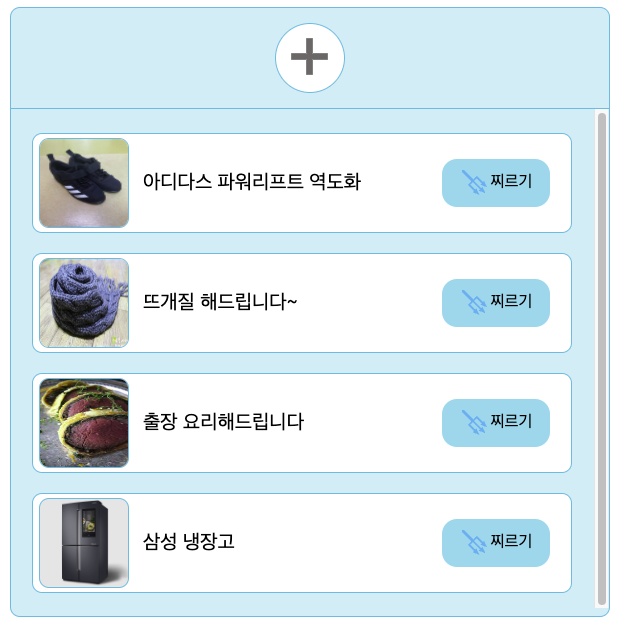
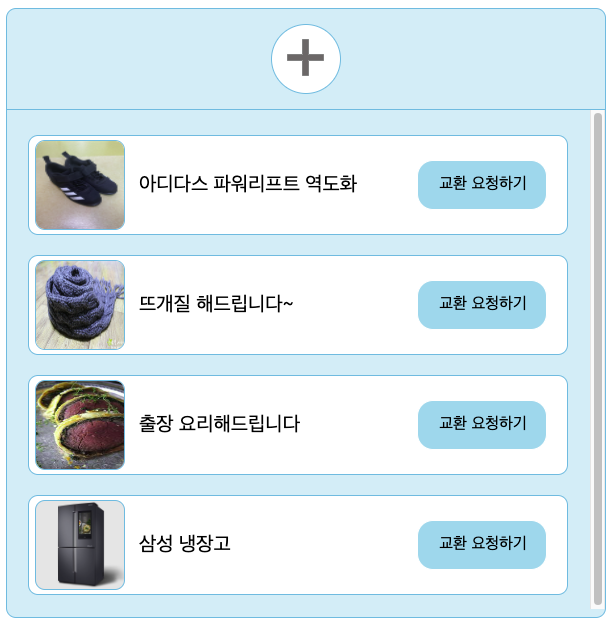
[fix] homepage 수정

Changed region(s): [[0.0, 0.0, 0.9902, 1.0]]

diff --git a/client/src/page/home/HomePage.tsx b/client/src/page/home/HomePage.tsx
@@ -15,14 +15,19 @@ import shelldetail from '../../asset/homepage/shelldetail.png';
 import pokeshell from '../../asset/homepage/pokeshell.png';
 import shallweshellwe from '../../asset/homepage/shallweshellwe.png';
 import shelllist from '../../asset/homepage/shelllist.png';
+import offered from '../../asset/homepage/offered.png';
 
 const HomePage = () => {
   const intro1 = '혁신적인 물물교환 서비스';
   const intro2 = '상호 혜택의 가치 제공';
-  const aboutproduct1 = `Shell을 공유해보세요`;
-  const pokefeature1 = 'Shell이 있나요?';
-  const pokefeature2 = '원하는 제품을 찔러보세요';
-  const messagefeature = '메시지를 통한 자유로운 소통';
+  const aboutproduct1 = `물품, 재능이 있으신가요?`;
+  const aboutproduct2 = `쉘을 공유해보세요`;
+  const pokefeature1 = '쉘을 생성하셨나요?';
+  const pokefeature2 = '원하는 쉘과 교환해보세요';
+  const offeredfeature1 = '받은 요청을 확인해보세요';
+  const offeredfeature2 = '원하는 요청을 수락해보세요';
+  const messagefeature1 = '수락하시면 채팅이 생성돼요';
+  const messagefeature2 = '자유롭게 거래해보세요';
 
   return (
     <HomePageWrapper>
@@ -43,7 +48,11 @@ const HomePage = () => {
         <ContentBox>
           <ContentTextBox>
             <Title>물품 · 재능(Shell)</Title>
-            <Body>{aboutproduct1}</Body>
+            <Body>
+              {aboutproduct1}
+              <br />
+              {aboutproduct2}
+            </Body>
           </ContentTextBox>
           <ContentImgBox>
             <ContentImg src={shelldetail} alt="picture" />
@@ -51,7 +60,7 @@ const HomePage = () => {
         </ContentBox>
         <ContentBox>
           <ContentTextBox>
-            <Title>찌르기</Title>
+            <Title>교환 요청</Title>
             <Body>
               {pokefeature1}
               <br />
@@ -64,8 +73,23 @@ const HomePage = () => {
         </ContentBox>
         <ContentBox>
           <ContentTextBox>
+            <Title>교환 요청 확인</Title>
+            <Body>
+              {offeredfeature1} <br />
+              {offeredfeature2}
+            </Body>
+          </ContentTextBox>
+          <ContentImgBox>
+            <ContentImg src={offered} alt="picture" />
+          </ContentImgBox>
+        </ContentBox>
+        <ContentBox>
+          <ContentTextBox>
             <Title>DM</Title>
-            <Body>{messagefeature}</Body>
+            <Body>
+              {messagefeature1} <br />
+              {messagefeature2}
+            </Body>
           </ContentTextBox>
           <ContentImgBox>
             <ContentImg src={DM} alt="picture" />

diff --git a/client/src/page/home/HomePage.styled.ts b/client/src/page/home/HomePage.styled.ts
@@ -18,9 +18,10 @@ const ContentBox = styled.div`
   padding: 150px 120px 120px 120px;
   gap: 20px;
 
-  @media (max-width: 1620px) {
-    padding: 150px 80px 120px 80px;
+  @media (max-width: 1640px) {
+    padding: 150px 80px 100px 90px;
   }
+
   @media (max-width: 768px) {
     padding: 30px;
     gap: 5px;
